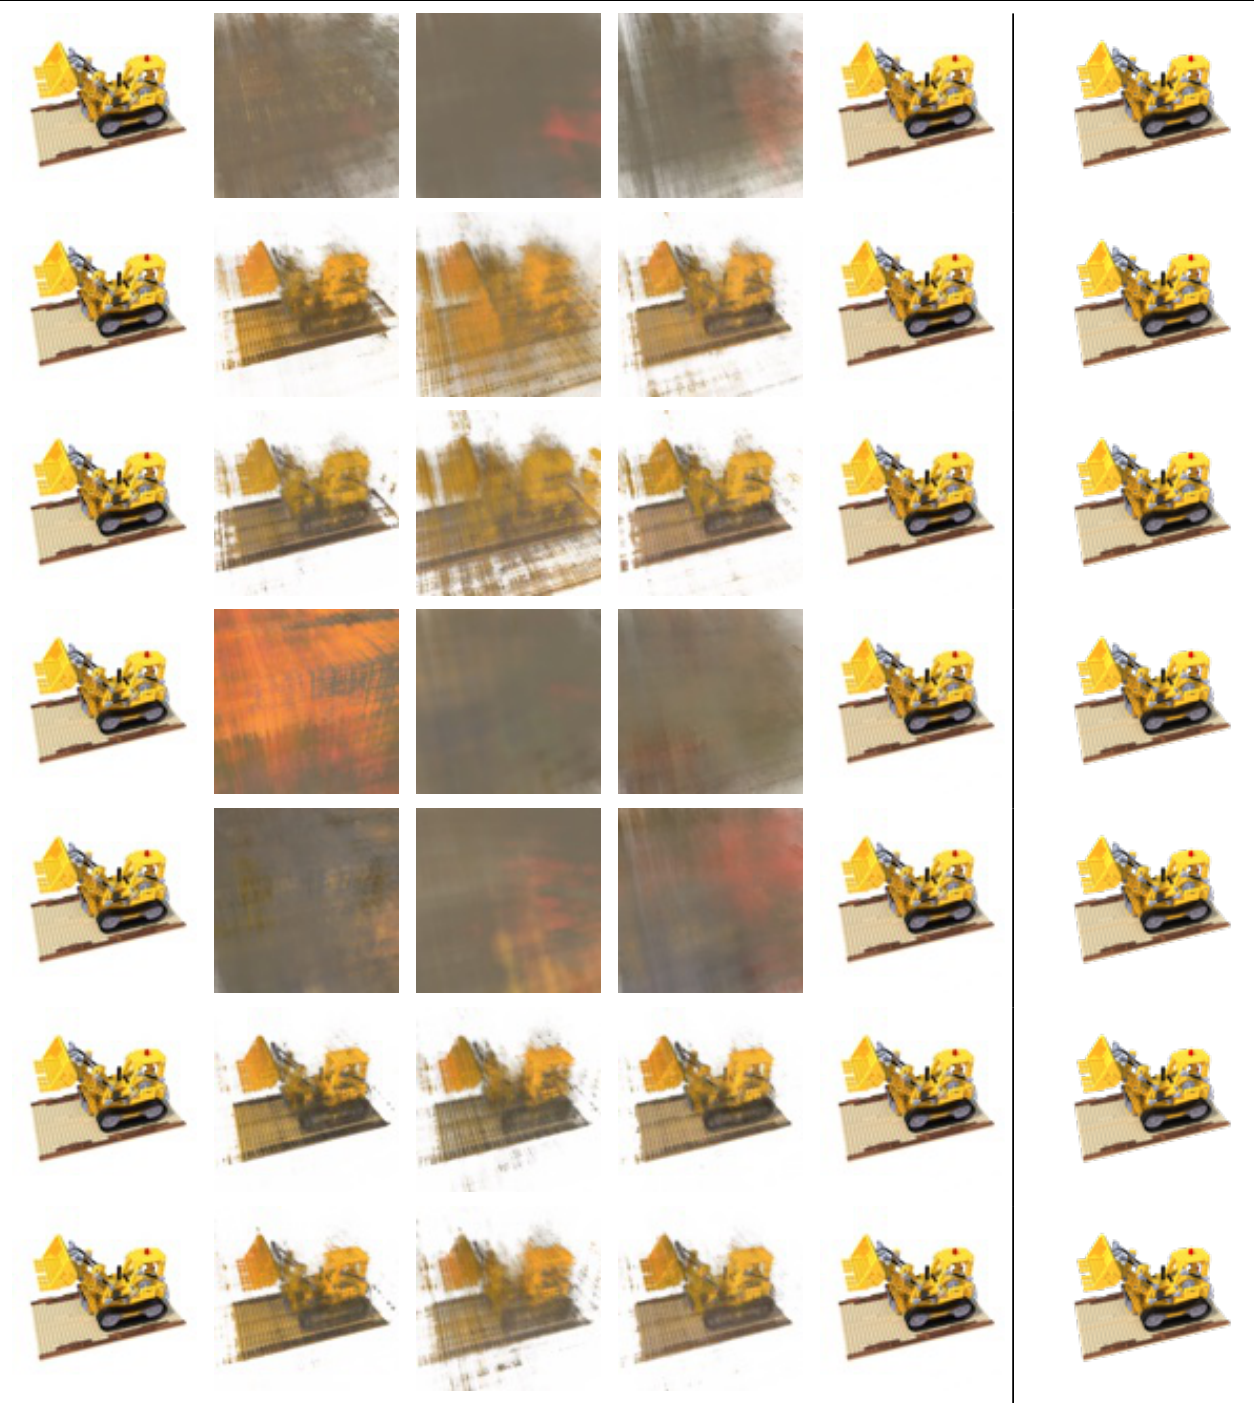
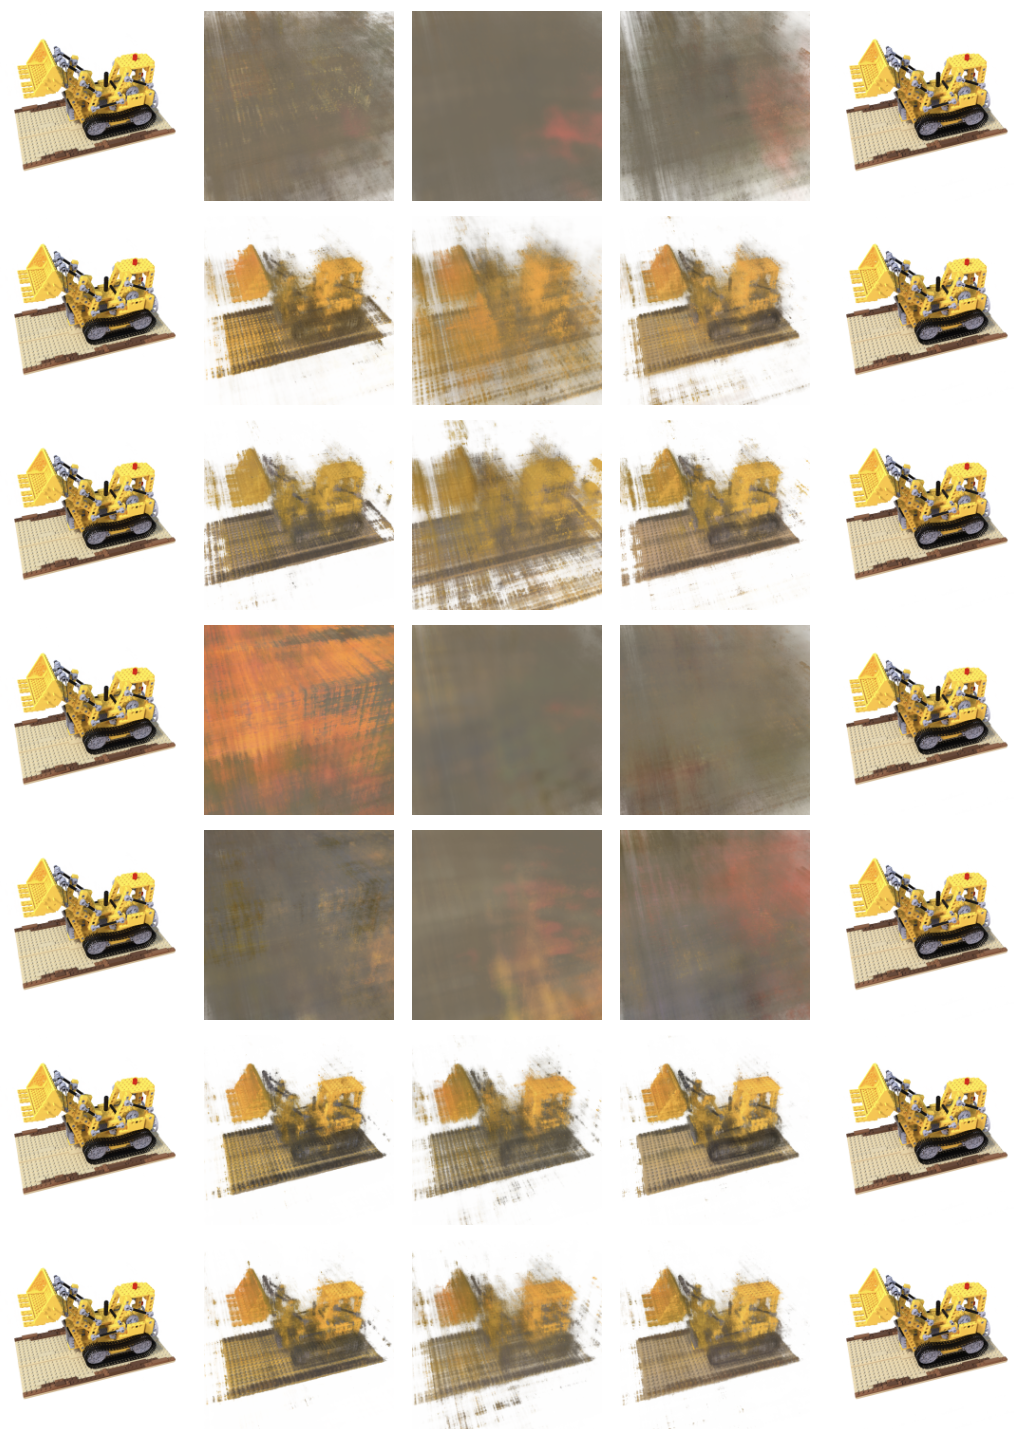
docs: プロジェクトページの補間曲線と定性結果の図を高解像度版に差し替える

diff --git a/docs/index.html b/docs/index.html
@@ -157,11 +157,11 @@
 </table>
 </div>
 <figure>
-  <img src="static/img/curves.png" alt="RMSE and PSNR of the interpolated models as a function of lambda for all methods." width="1466" height="444">
+  <img src="static/img/curves.png" alt="RMSE and PSNR of the interpolated models as a function of lambda for all methods." width="2168" height="632">
   <figcaption>RMSE and PSNR along the interpolation path.</figcaption>
 </figure>
 <figure>
-  <img src="static/img/qualitative.png" alt="Rendered interpolations of the lego scene at several lambda values for all methods." width="1254" height="1403" loading="lazy">
+  <img src="static/img/qualitative.png" alt="Rendered interpolations of the lego scene at several lambda values for all methods." width="1022" height="1436" loading="lazy">
   <figcaption>Interpolations of the lego scene: (a) Naive, (b) Weight Matching, (c) Progressive WM, (d) OT4P, (e) Progressive OT4P, (f) Ours without refinement, (g) Ours.</figcaption>
 </figure>
 
